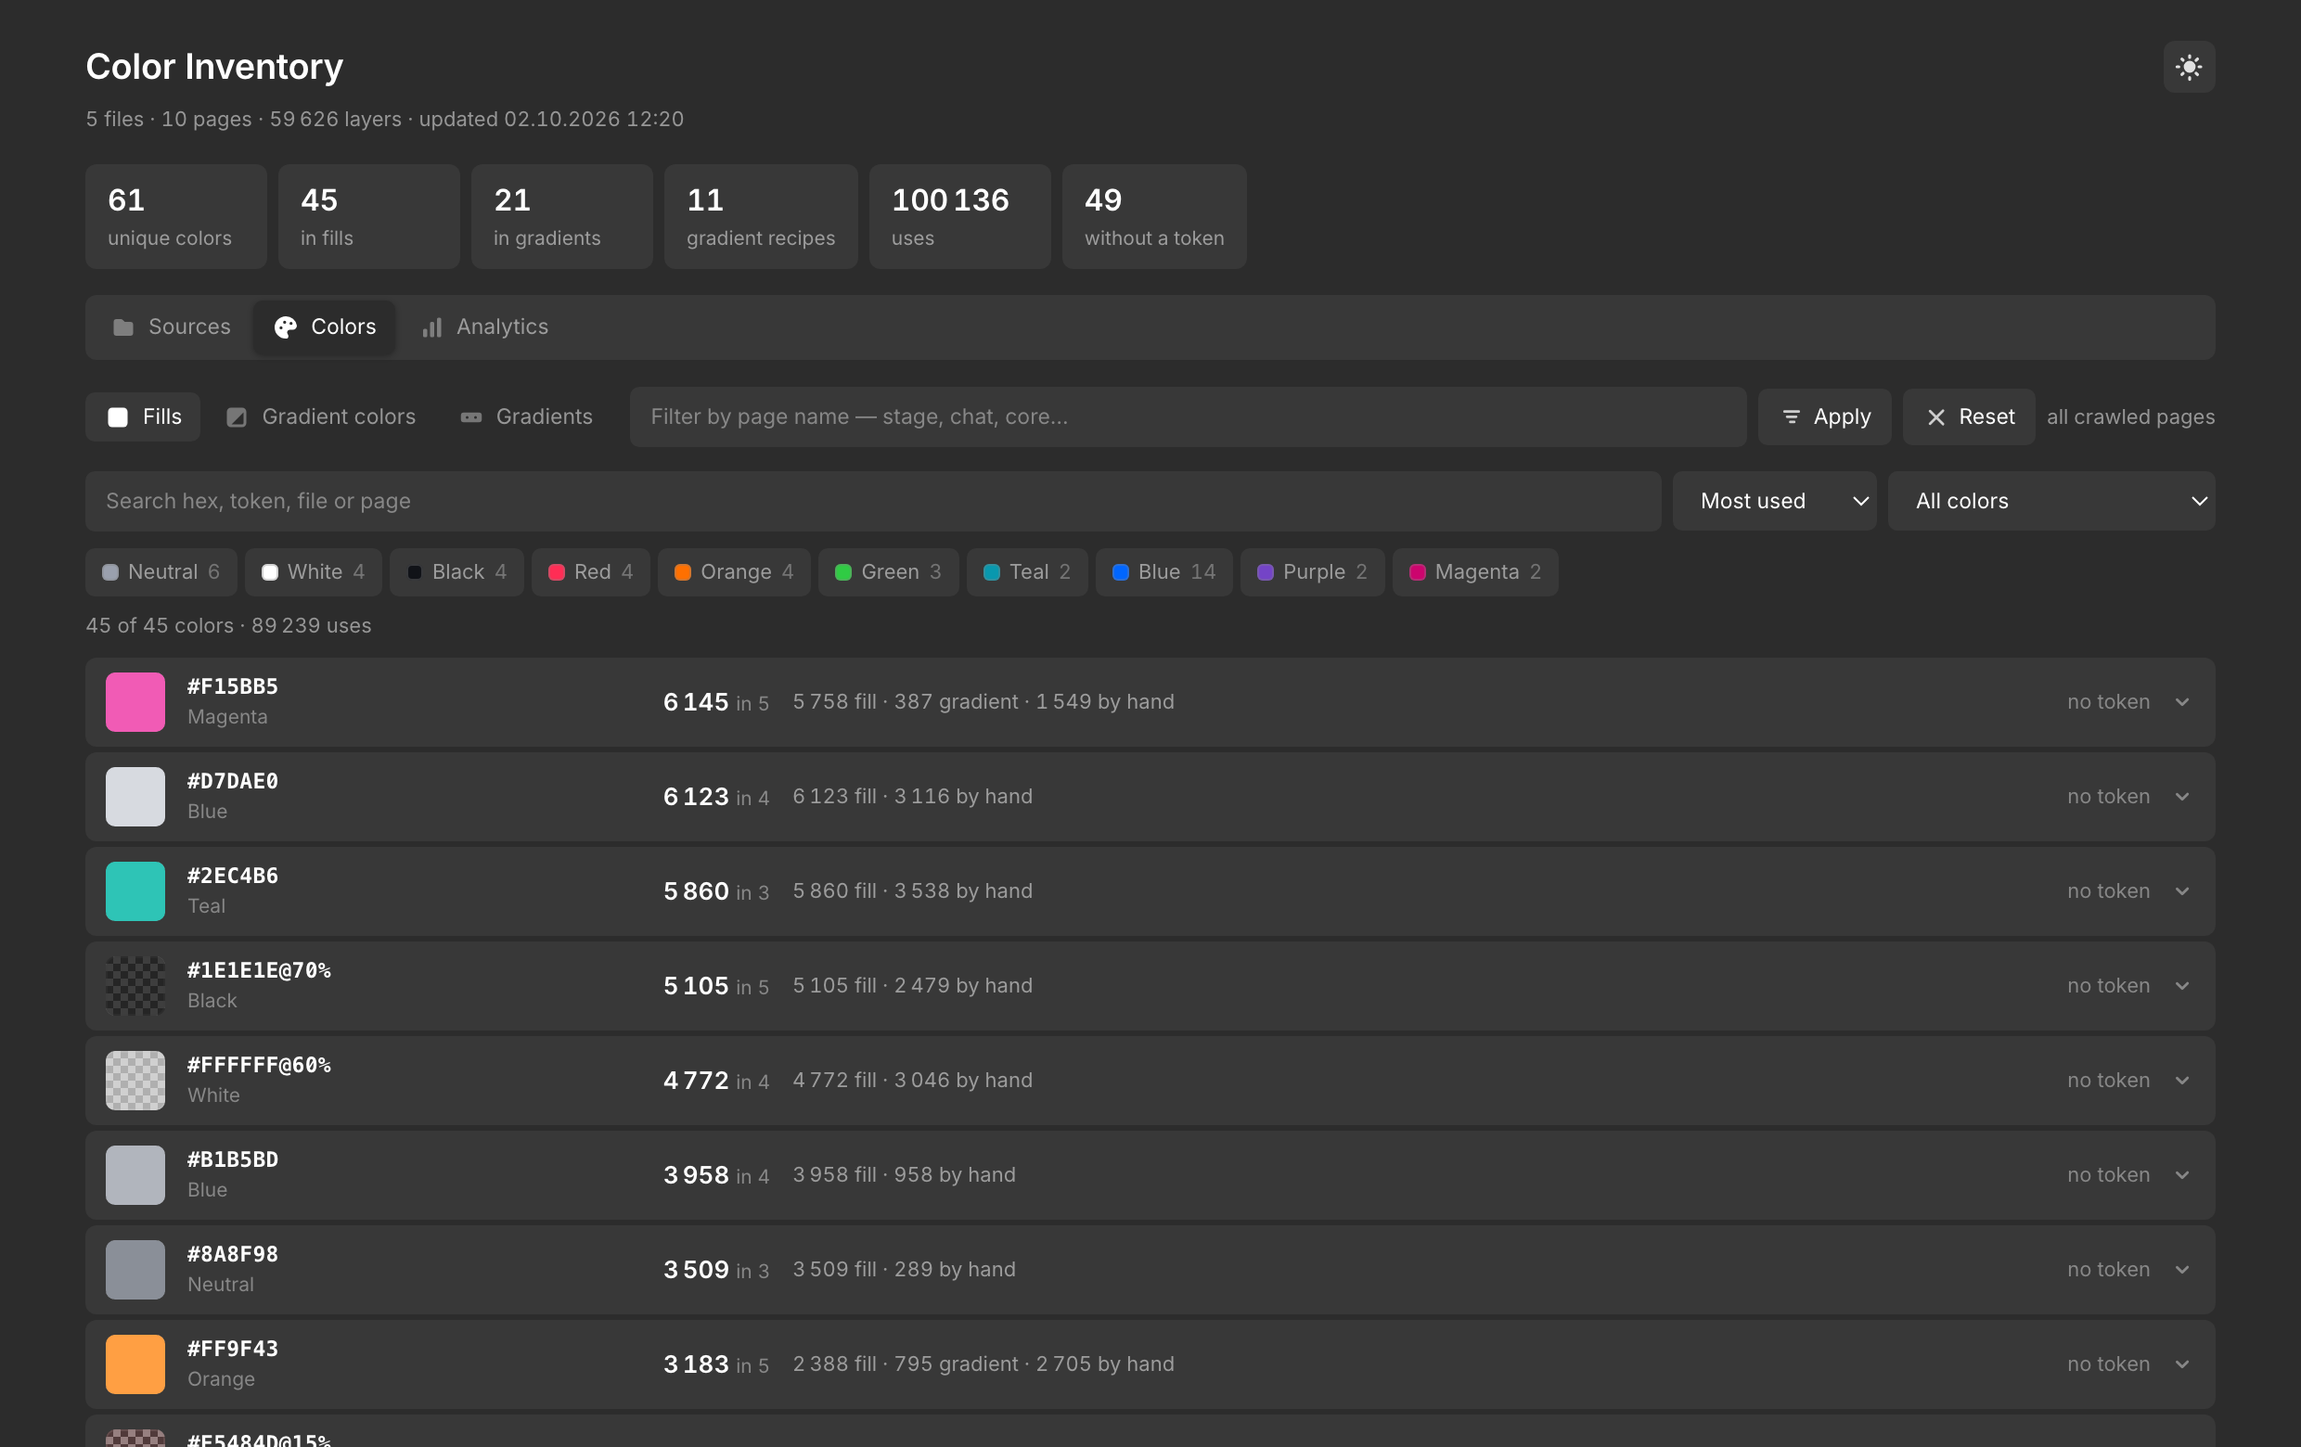
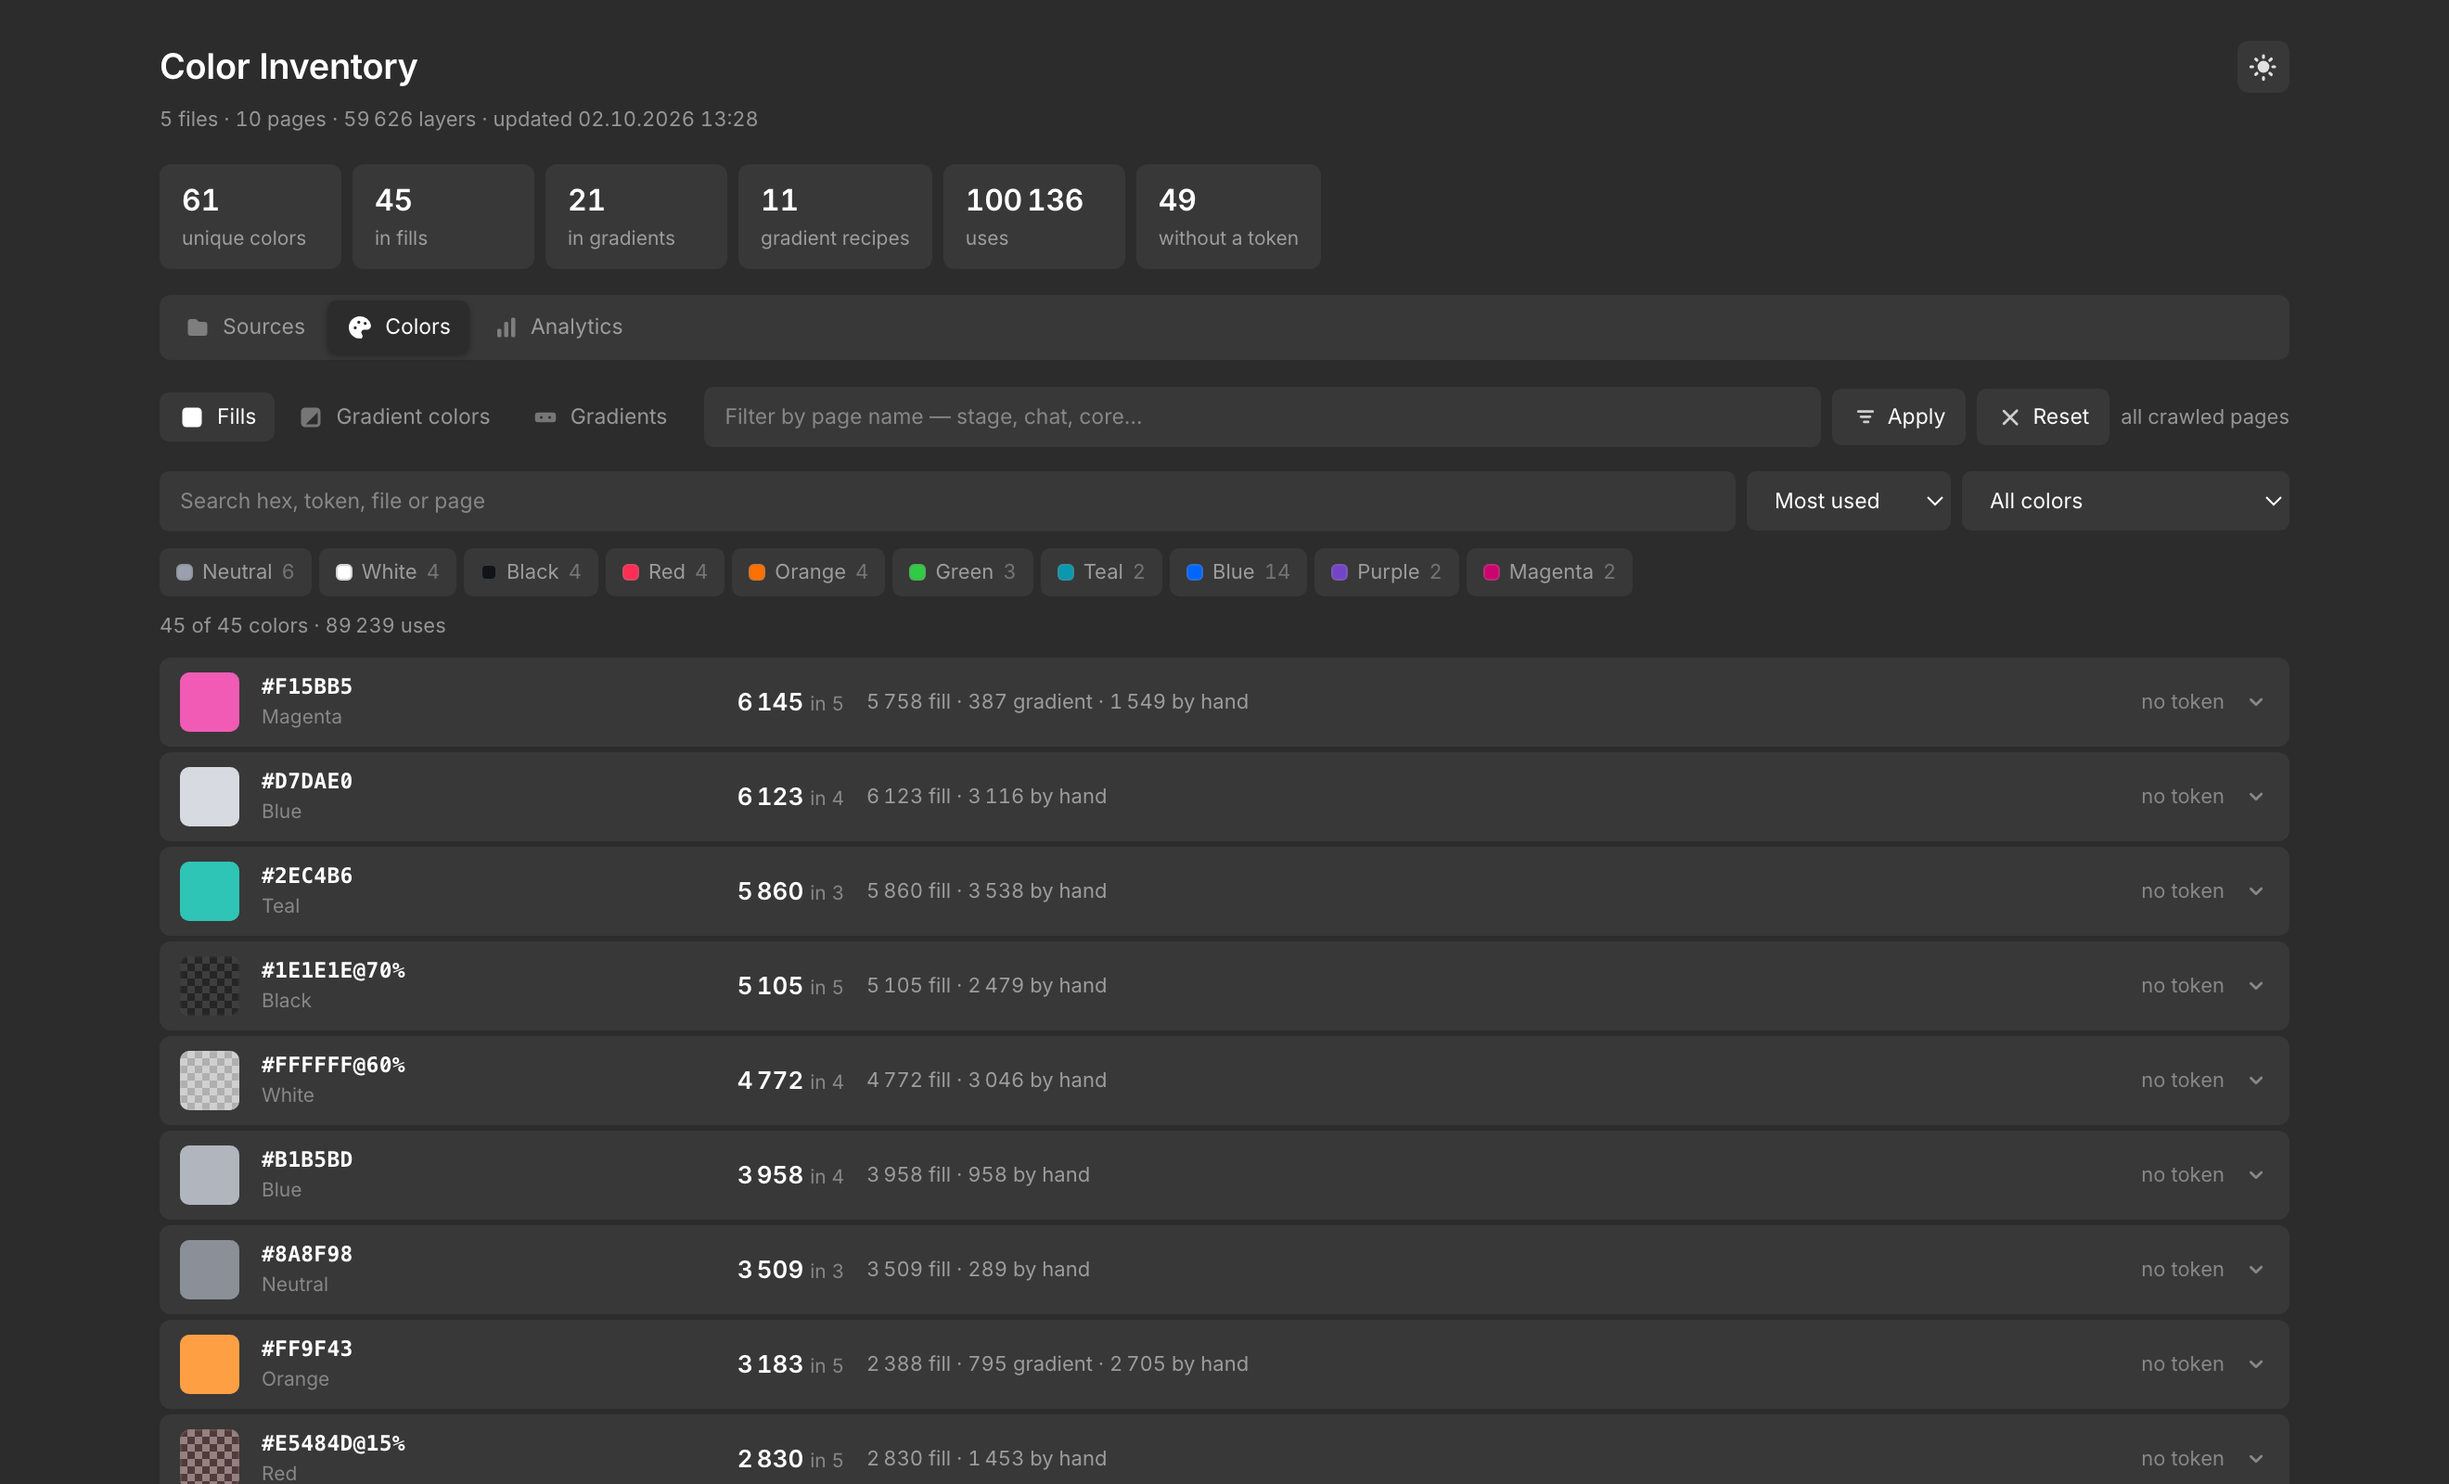
Fix broken README image, add Sources and light-theme screenshots, allow ?theme= in the URL

diff --git a/app.html b/app.html
@@ -349,6 +349,10 @@ function applyTheme(light){
   try { localStorage.setItem('theme', light ? 'light' : 'dark'); } catch (e) { /* private window */ }
 }
 (function initTheme(){
+  // ?theme=light|dark в адресе перебивает всё: так можно прислать ссылку
+  // в нужной теме и снимать скриншоты без ручного переключения.
+  const forced = new URLSearchParams(location.search).get('theme');
+  if (forced === 'light' || forced === 'dark') { applyTheme(forced === 'light'); return; }
   let light = false;
   try {
     const saved = localStorage.getItem('theme');

diff --git a/README.ru.md b/README.ru.md
@@ -8,6 +8,35 @@
 
 [English version](README.md)
 
+![Вкладка Colors](docs/colors.png)
+
+*Каждый цвет: сколько раз применён, сколько из этого набрано руками и за каким
+токеном он стоит. Клик по строке — ссылки на конкретные слои.*
+
+<details>
+<summary>Ещё снимки</summary>
+
+**Sources** — что обходим и чем это запускается.
+
+![Вкладка Sources](docs/sources.png)
+
+**Gradients** — сами градиенты с превью каждого.
+
+![Вкладка Gradients](docs/gradients.png)
+
+**Summary** — вся картина в цифрах.
+
+![Вкладка Summary](docs/summary.png)
+
+**Светлая тема** — переключается кнопкой в углу, выбор запоминается.
+Чтобы задать принудительно, добавь к адресу `?theme=light`.
+
+![Светлая тема](docs/light.png)
+
+</details>
+
+> На снимках выдуманные демо-данные, не реальный проект.
+
 ## Как запустить
 
 Два способа, любой:

diff --git a/README.md b/README.md
@@ -8,7 +8,34 @@ product*, *how many of them have no token behind them*, and *where to find them*
 
 [Русская версия](README.ru.md)
 
-![tabs: Summary, Sources, Colors, Gradient colors, Gradients, Tokens](docs/screenshot.png)
+![Colors tab](docs/colors.png)
+
+*Every colour, how often it is applied, how much of that is set by hand, and
+which token carries the same value. Click a row to get links to the layers.*
+
+<details>
+<summary>More screenshots</summary>
+
+**Sources** — what gets crawled, and the controls to do it.
+
+![Sources tab](docs/sources.png)
+
+**Gradients** — the recipes themselves, with a preview of each.
+
+![Gradients tab](docs/gradients.png)
+
+**Summary** — the whole picture in numbers.
+
+![Summary tab](docs/summary.png)
+
+**Light theme** — toggled from the corner and remembered between visits.
+Add `?theme=light` to the address to force it.
+
+![Light theme](docs/light.png)
+
+</details>
+
+> Screenshots use made-up demo data, not a real project.
 
 ## What it does
 
